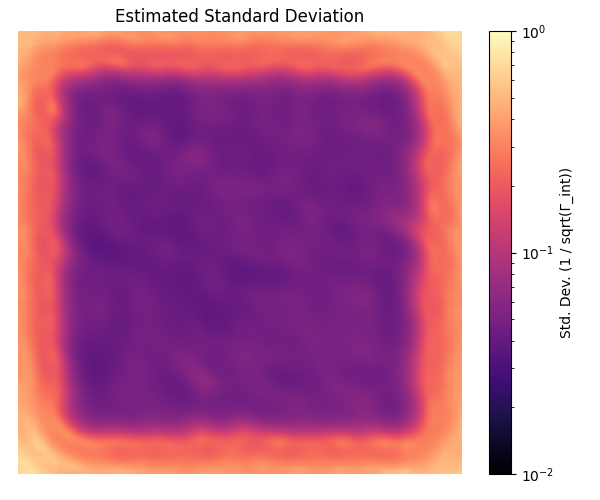
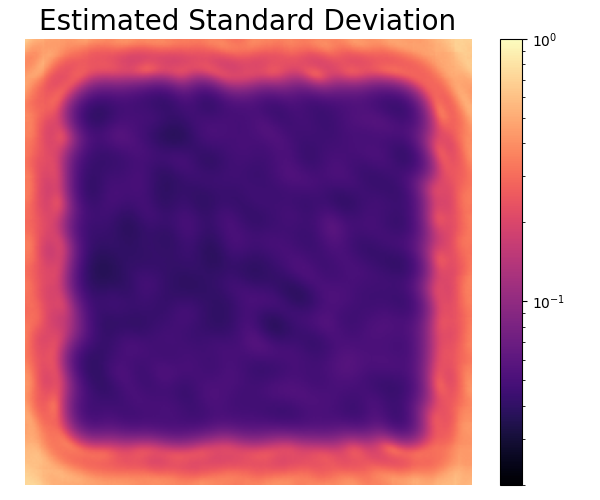
Correct test scripts

diff --git a/experiments/scripts/run_uncertainty_validation.py b/experiments/scripts/run_uncertainty_validation.py
@@ -15,7 +15,6 @@ from ptychoep.ptycho.noise import GaussianNoise
 from ptychoep.ptychoep.core import PtychoEP
 import os
 
-os.makedirs("experiment/results", exist_ok=True)
 
 # === データ生成 ===
 image_size = 512
@@ -23,6 +22,8 @@ probe_size = 128
 step = 12
 num_scans = 16
 jitter = 2
+data_seed = 999
+algorithm_seed = 123
 
 amp = np().asarray(load_data_image("cameraman.png"), dtype=np().complex64)
 phase = np().asarray(load_data_image("eagle.png"), dtype=np().complex64)
@@ -36,7 +37,7 @@ positions = generate_centered_grid_positions(
     num_points_y=num_scans,
     num_points_x=num_scans,
     jitter=jitter,
-    seed=90
+    seed=data_seed
 )
 
 ptycho = Ptycho()
@@ -46,14 +47,14 @@ ptycho.forward_and_set_diffraction(positions)
 ptycho.sort_diffraction_data()
 
 var = 1e-3
-GaussianNoise(var=var, seed=124) @ ptycho
+GaussianNoise(var=var, seed=data_seed) @ ptycho
 
 ep_list = []
 def record_callback(it, err, current_obj):
     ep_list.append(err)
 
-engine = PtychoEP(ptycho=ptycho, damping=0.5, seed=1, callback=record_callback)
-result_ep = engine.run(n_iter=100)
+engine = PtychoEP(ptycho=ptycho, damping=0.5, seed=algorithm_seed, callback=record_callback)
+result_ep = engine.run(n_iter=200)
 reconstruction = result_ep[0]
 precision_map = result_ep[1]
 
@@ -75,17 +76,27 @@ print(f"Ratio of pixels within [0.5σ, 2σ]: {ratio_in_range:.2%}")
 plt.imsave("../result/reconstruction_amplitude.png",
            np().abs(reconstruction_aligned[crop, crop]), cmap="gray")
 # カラーバー付きで標準偏差マップを保存
-fig, ax = plt.subplots(figsize=(6, 5))
-im = ax.imshow(standard_deviation[crop, crop], cmap="magma", norm=LogNorm(vmin=1e-2, vmax=1e0))
-ax.set_title("Estimated Standard Deviation")
-
+fig1, ax1 = plt.subplots(figsize=(6, 5))
+im1 = ax1.imshow(standard_deviation[crop, crop], cmap="magma", norm=LogNorm(vmin=2e-2, vmax=1e0))
+ax1.set_title("Estimated Standard Deviation", fontsize = 20)
 # 軸の目盛りを非表示にする
-ax.axis("off")
-
-cbar = fig.colorbar(im, ax=ax)
-cbar.set_label("Std. Dev. (1 / sqrt(Γ_int))")
+ax1.axis("off")
+cbar1 = fig1.colorbar(im1, ax=ax1)
 plt.tight_layout()
 plt.savefig("../result/estimated_stddev_with_colorbar.png")
+
+#-------  追加 ------
+# カラーバー付きで誤差マップを保存
+fig2, ax2 = plt.subplots(figsize=(6, 5))
+im2 = ax2.imshow(amplitude_error[crop, crop], cmap="magma", norm=LogNorm(vmin=2e-2, vmax=1e0))
+ax2.set_title("Absolute Error", fontsize = 20)
+# 軸の目盛りを非表示にする
+ax2.axis("off")
+cbar2 = fig2.colorbar(im2, ax=ax2)
+plt.tight_layout()
+plt.savefig("../result/absolute_error.png")
+
+
 
 
 
@@ -93,8 +104,8 @@ plt.figure(figsize=(6, 4))
 plt.hist(normalized_error, bins=100, range=(0, 3), density=True, alpha=0.7, label='Normalized Error')
 plt.axvline(0.5, color='red', linestyle='--', label='Bounds 0.5 / 2.0')
 plt.axvline(2.0, color='red', linestyle='--')
-plt.title("Distribution of Normalized Reconstruction Error")
-plt.xlabel(r"$|x_{\mathrm{est}} - x_{\mathrm{true}}| / \sigma$")
+plt.title("Distribution of Normalized Reconstruction Error", fontsize = 15)
+plt.xlabel(r"$|O_{\mathrm{est}} - O_{\mathrm{true}}| / \sigma$", fontsize = 15)
 plt.ylabel("Density")
 plt.legend()
 plt.grid(True)

diff --git a/experiments/scripts/run_reconstruction_vs_scan_density.py b/experiments/scripts/run_reconstruction_vs_scan_density.py
@@ -149,12 +149,19 @@ def main():
             plt.imsave(os.path.join(output_dir, f"recon_pie_object_{args.object}_step_{args.step}.png"), out_img_pie, cmap="gray")
             plt.imsave(os.path.join(output_dir, f"recon_ep_object_{args.object}_step_{args.step}.png"), out_img_ep, cmap="gray")
 
-    # メディアン出力
+    # メディアンと四分位数を出力
     median_pie = np().median(pmse_list_pie)
+    q1_pie = np().percentile(pmse_list_pie, 25)
+    q3_pie = np().percentile(pmse_list_pie, 75)
+
     median_ep = np().median(pmse_list_ep)
+    q1_ep = np().percentile(pmse_list_ep, 25)
+    q3_ep = np().percentile(pmse_list_ep, 75)
+
     print("\n========== Summary ==========")
-    print(f"[PIE]       PMSE Median: {median_pie:.4f} dB")
-    print(f"[Ptycho-EP] PMSE Median: {median_ep:.4f} dB")
+    print(f"[PIE]       PMSE Median: {median_pie:.4f} dB  (Q1={q1_pie:.4f}, Q3={q3_pie:.4f})")
+    print(f"[Ptycho-EP] PMSE Median: {median_ep:.4f} dB  (Q1={q1_ep:.4f}, Q3={q3_ep:.4f})")
+
 
     # 収束曲線プロット
     iteration_ticks = np().arange(0, n_iter, 10)

diff --git a/experiments/table1_results.md b/experiments/table1_results.md
@@ -15,86 +15,86 @@ See `experiments/README.md` for usage details.
 ## Notes
 
 - **Object sets**:
-  - `lily`: phase-rich image, moderate sparsity
-  - `cameraman`: sparser image
+  - `lily`: sparser image
+  - `cameraman`: dense image
 - **Noise level**:
   - To ensure a consistent **SNR ≈ 30.0 ± 0.1 dB**, the noise variance was slightly adjusted per scan step size.
   - `lily`: variance = 3.3–3.4e-5
-  - `cameraman`: variance = 11.6–12.1e-5
+  - `cameraman`: variance = 11.5–12.2e-5
 - **PMSE**: Computed over central 256×256 region
 - **Sparse prior** indicates use of Bernoulli–Gaussian prior in Ptycho-EP (`--prior sparse`)
 
 ---
 
-## Results Summary
+## Results Summary (with IQR)
 
 ### α = 4.0 (step = 16.93)
 
-| Object     | Prior     | PIE PMSE | Ptycho-EP PMSE |
-|------------|-----------|----------|----------------|
-| lily       | Gaussian  | 22.56    | 29.45          |
-| lily       | Sparse    |     -    | 34.03          |
-| cameraman  | Gaussian  | 28.76    | 29.83          |
+| Object    | Prior    | PIE PMSE [dB]           | Ptycho-EP PMSE [dB]        |
+|-----------|----------|-------------------------|-----------------------------|
+| lily      | Gaussian | 22.98 (19.93–24.86)     | 29.48 (29.47–29.49)         |
+| lily      | Sparse   | –                       | 34.07 (34.06–34.09)         |
+| cameraman | Gaussian | 28.76 (26.27–28.81)     | 29.80 (28.48–29.85)         |
 
 ---
 
 ### α = 3.0 (step = 19.78)
 
-| Object     | Prior     | PIE PMSE | Ptycho-EP PMSE |
-|------------|-----------|----------|----------------|
-| lily       | Gaussian  | 0.39     | 26.47          |
-| lily       | Sparse    |    -     | 32.09          |
-| cameraman  | Gaussian  | 19.49    | 26.51          |
+| Object    | Prior    | PIE PMSE [dB]           | Ptycho-EP PMSE [dB]        |
+|-----------|----------|-------------------------|-----------------------------|
+| lily      | Gaussian | 0.36 (–0.07–0.56)       | 26.66 (26.64–26.68)         |
+| lily      | Sparse   | –                       | 32.22 (32.20–32.23)         |
+| cameraman | Gaussian | 19.58 (18.95–23.84)     | 26.49 (24.96–26.73)         |
 
 ---
 
 ### α = 2.5 (step = 21.90)
 
-| Object     | Prior     | PIE PMSE | Ptycho-EP PMSE |
-|------------|-----------|----------|----------------|
-| lily       | Gaussian  | -0.35    | 22.56          |
-| lily       | Sparse    |    -     | 30.87          |
-| cameraman  | Gaussian  | 10.98    | 20.09          |
+| Object    | Prior    | PIE PMSE [dB]           | Ptycho-EP PMSE [dB]        |
+|-----------|----------|-------------------------|-----------------------------|
+| lily      | Gaussian | –0.35 (–0.73––0.25)     | 22.62 (22.45–22.76)         |
+| lily      | Sparse   | –                       | 30.86 (30.86–30.88)         |
+| cameraman | Gaussian | 11.04 (9.99–13.10)      | 20.09 (19.24–21.23)         |
 
 ---
 
 ### α = 2.4 (step = 22.45)
 
-| Object     | Prior     | PIE PMSE | Ptycho-EP PMSE |
-|------------|-----------|----------|----------------|
-| lily       | Gaussian  | -0.90    | 20.38          |
-| lily       | Sparse    |    -     | 30.54          |
-| cameraman  | Gaussian  | 9.77     | 18.72          |
+| Object    | Prior    | PIE PMSE [dB]           | Ptycho-EP PMSE [dB]        |
+|-----------|----------|-------------------------|-----------------------------|
+| lily      | Gaussian | –0.91 (–1.63––0.62)     | 20.77 (20.11–20.87)         |
+| lily      | Sparse   | –                       | 30.54 (30.52–30.56)         |
+| cameraman | Gaussian | 9.77 (7.69–10.92)       | 19.38 (18.17–19.65)         |
 
 ---
 
 ### α = 2.3 (step = 22.95)
 
-| Object     | Prior     | PIE PMSE | Ptycho-EP PMSE |
-|------------|-----------|----------|----------------|
-| lily       | Gaussian  | -1.02    | 16.77          |
-| lily       | Sparse    |     -    | 23.33          |
-| cameraman  | Gaussian  | 8.67     | 14.82          |
+| Object    | Prior    | PIE PMSE [dB]           | Ptycho-EP PMSE [dB]        |
+|-----------|----------|-------------------------|-----------------------------|
+| lily      | Gaussian | –1.01 (–1.56––0.77)     | 16.60 (15.63–16.85)         |
+| lily      | Sparse   | –                       | 27.23 (24.16–29.09)         |
+| cameraman | Gaussian | 8.67 (6.74–9.76)        | 15.26 (14.79–17.10)         |
 
 ---
 
 ### α = 2.2 (step = 23.60)
 
-| Object     | Prior     | PIE PMSE | Ptycho-EP PMSE |
-|------------|-----------|----------|----------------|
-| lily       | Gaussian  | -1.41    | 1.94           |
-| lily       | Sparse    |     -    | 8.22           |
-| cameraman  | Gaussian  | 6.61     | 13.00          |
+| Object    | Prior    | PIE PMSE [dB]           | Ptycho-EP PMSE [dB]        |
+|-----------|----------|-------------------------|-----------------------------|
+| lily      | Gaussian | –1.41 (–2.10––0.89)     | 1.82 (1.76–1.91)            |
+| lily      | Sparse   | –                       | 8.18 (7.54–10.32)           |
+| cameraman | Gaussian | 6.62 (4.58–8.55)        | 14.13 (13.03–14.93)         |
 
 ---
 
 ### α = 2.1 (step = 24.20)
 
-| Object     | Prior     | PIE PMSE | Ptycho-EP PMSE |
-|------------|-----------|----------|----------------|
-| lily       | Gaussian  | -1.68    | 0.00           |
-| lily       | Sparse    |     -    | 2.71           |
-| cameraman  | Gaussian  | 3.42     | 12.45          |
+| Object    | Prior    | PIE PMSE [dB]           | Ptycho-EP PMSE [dB]        |
+|-----------|----------|-------------------------|-----------------------------|
+| lily      | Gaussian | –1.68 (–2.21––1.13)     | 0.00 (0.00–0.00)            |
+| lily      | Sparse   | –                       | 2.21 (0.94–2.60)            |
+| cameraman | Gaussian | 3.43 (2.43–3.82)        | 12.86 (11.85–13.84)         |
 
 ---
 

diff --git a/experiments/readme.md b/experiments/readme.md
@@ -14,14 +14,14 @@ This experiment assumes a round aperture probe function.
 * **Arguments**:
 
   * `--n_repeats`: number of repeated trials (default: 10)
-  * `--noise_type`: `gaussian` or `poisson`
-  * `--noise_param`: variance (for Gaussian) or scale (for Poisson)
+  * `--noise`: variance (for Gaussian) (unit: 10^5)
   * `--step`: scan step size (in pixels)
-  * `--num_scans`: number of scans along each axis (default: 11)
+  * `--object`: cameraman or lily
+  * `--prior`: gaussian or sparse (default: gaussian)
 
 * **Example Command**
 ```bash
-  python script/run_reconstruction_vs_scan_density.py  --n_repeats 10 --noise_type poisson --noise_param 3000  --step 12  --num_scans 16
+  python scripts/run_reconstruction_vs_scan_density.py  --trials 10 --noise 3.4  --object lily  --step 22.95 --prior sparse
 ```
 
 * **Output**:
